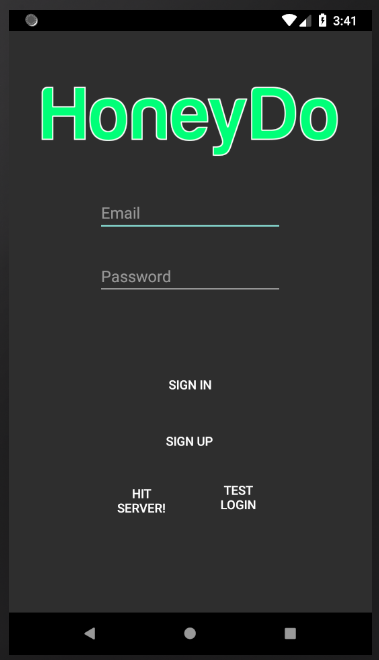
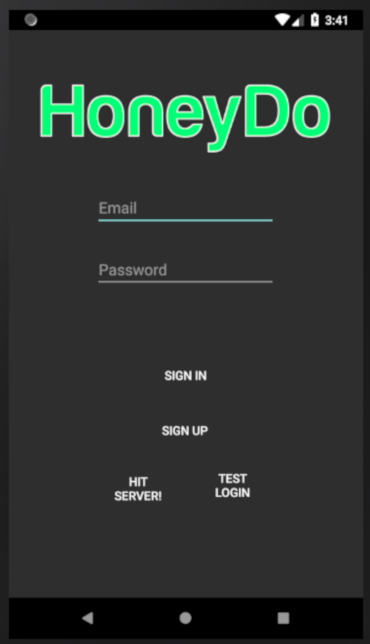
made projects into markdown files, added jist and py-lights md

diff --git a/templates/projects.html b/templates/projects.html
@@ -1,12 +1,13 @@
-<canvas id="gol-canvas"style="position:absolute; z-index: -10; left: 0; top: 0"></canvas>
 	<div class="container m-0">
 		<div class="row">
-			<div class="col-3" style="border-right: 1px solid rgba(0, 0, 0, 0.1)">
+			<div class="col-3 h-100" style="border-right: 1px solid rgba(0, 0, 0, 0.1)">
 				<div class="project-list"></div>
 			</div>
 			<div class="pt-2 pb-2 col-9">
 				{% if project %}
-					{%include ('projects/' + project + '.html') %}
+					{% filter markdown %}
+						{%include ('projects/' + project + '.md') %}
+					{% endfilter %}
 				{% endif %}
 			</div>
 		</div>

diff --git a/init.py b/init.py
@@ -1,12 +1,13 @@
 from flask import Flask
 from flask import render_template
 from flask import request
+from flaskext.markdown import Markdown
 
 app = Flask(__name__)
+Markdown(app)
 
 def render_header():
     return render_template("header.html")
-
 
 @app.route('/')
 def index():

diff --git a/templates/projects/honeyDo.md b/templates/projects/honeyDo.md
@@ -1,0 +1,24 @@
+
+# HoneyDo
+## Android Application
+---
+HoneyDo is a task management android app designed for quick and intuitive user experience and privacy.
+
+HoneyDo features:
+
+* Cloud storage using MongoDB as a database
+* Login profiles in order to easily migrate to different devices while maintainig priavcy
+* Ability to add, edit, and set notifications for tasks
+
+I worked on HoneyDo with 4 other students in my Software Engineering course over a semester. Since we split up the work I primarily designed and created the front end while also working on the API functionality to tie the front-end to the back-end.
+
+<div class="row">
+	<div class="col-6">
+		<img class="d-block img-fluid" src="/static/images/honeyDo/HoneyDo_01.png">
+		*Login screen*
+	</div>
+	<div class="col-6">
+		<img class="d-block img-fluid" src="/static/images/honeyDo/HoneyDo_03.png">
+		*Creating a task*
+	</div>
+</div>

diff --git a/templates/projects/ein.md b/templates/projects/ein.md
@@ -1,0 +1,24 @@
+
+# Ein
+## Server (NAS, media server, website hosting)
+---
+Ein is my collection of computers used for various server-like purposes physically located in my closet.
+
+Components:
+
+* Ein <img src="/static/images/ein/ein_logo.png" height=36>
+
+	* A custom built PC running a linux distro (OpenMediVault) used primarily as a media server and NAS.
+
+* Pi Cluster <img src="/static/images/icons/pi.png" height=36>
+
+	* A network of 3 Raspberry Pi's running Docker Swarm. The cluster is used mainly for running this website and for being used as a test environment.
+
+<img class="d-block" src="/static/images/ein/diagram.png">
+*Diagram of network layout*
+
+<img class="d-block" style="width:412px" src="/static/images/ein/ein0.jpg">
+*Pi cluster*
+
+<img class="d-block" style="width:412px" src="/static/images/ein/ein1.jpg">
+*Pi cluster next to NAS server*

diff --git a/templates/projects/jist.md b/templates/projects/jist.md
@@ -1,0 +1,34 @@
+
+# Jist!
+## View Article Summaries From Major Publishers
+---
+Jist is a full-stack application developed with Nick Young for our senior project class
+
+Jist takes RSS feeds from major news publishers, parses, summarizes, and stores the articles, and displays them to a front-end application
+
+
+Supported publishers:
+
+* CNN
+* NY Times
+* Huffington Post
+* Fox News
+* USA Today
+* Reuters
+* Politico
+* Yahoo
+* NPR
+* NBC News
+* Daily Mail
+* The Guardian
+* ABC News
+* BBC
+* LA Times
+
+<img class="d-block img-fluid" src="/static/images/jist/jist_diagram.png">
+*Diagram of back-end microservices*
+
+<img class="d-block img-fluid" src="/static/images/jist/jist_screenshot.jpg">
+*Application screenshot*
+
+

diff --git a/templates/projects/py-lights.md b/templates/projects/py-lights.md
@@ -1,0 +1,10 @@
+
+# Py-Lights
+## Create live visuals from MIDI to LEDs
+---
+
+Py-Lights (name pending...) is a python program that assigns MIDI inputs to programmable actions that in turn create effects for LED lights.
+
+[Here is a blog post](https://www.raspberrypi.org/blog/midi-controlled-led-lights-raspberry-pi/) from the official Raspberry Pi blog featuring Py-Lights.
+
+<iframe width="560" height="315" src="https://www.youtube.com/embed/ARbRODReZN4" frameborder="0" allow="accelerometer; autoplay; encrypted-media; gyroscope; picture-in-picture" allowfullscreen></iframe>

diff --git a/templates/projects/cm2.0.md b/templates/projects/cm2.0.md
@@ -1,0 +1,8 @@
+
+# Change Management 2.0
+## Web Application
+---
+I worked on this project during my frist internship at Ultimate Software. The web application is used internally to schedule and approve changes to company services. I mostly worked on the front-end with additional work handeling the API and constructing the database for the projcet.
+
+<img class="w-100 h-100 expandable img-fluid" src="/static/images/cm2.0/Ultimate_site1.png">
+*Screenshot of font-end, creating a new change request*
